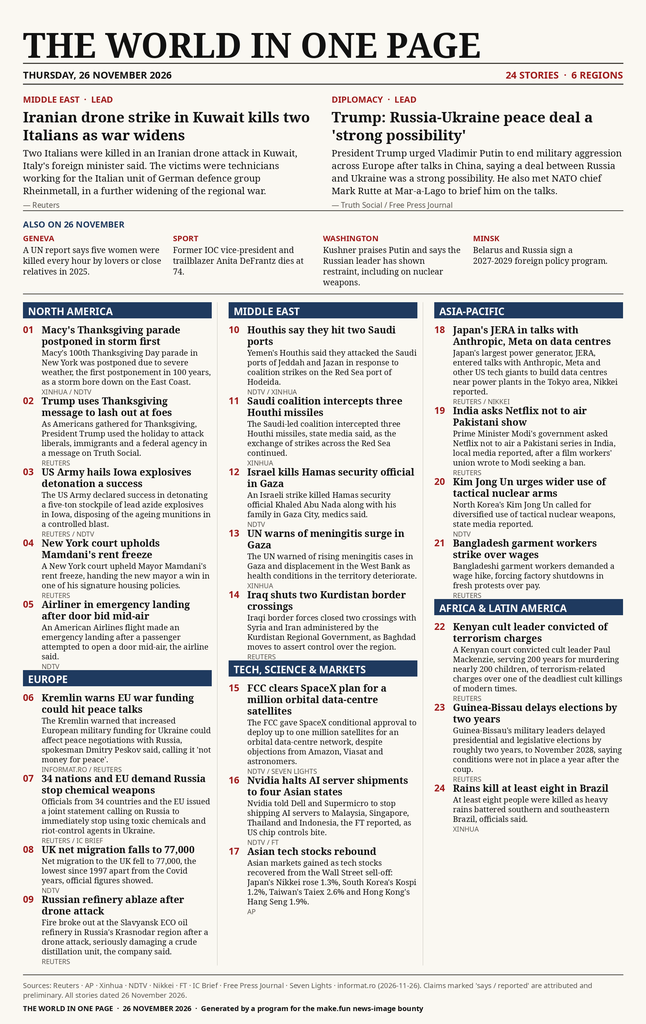
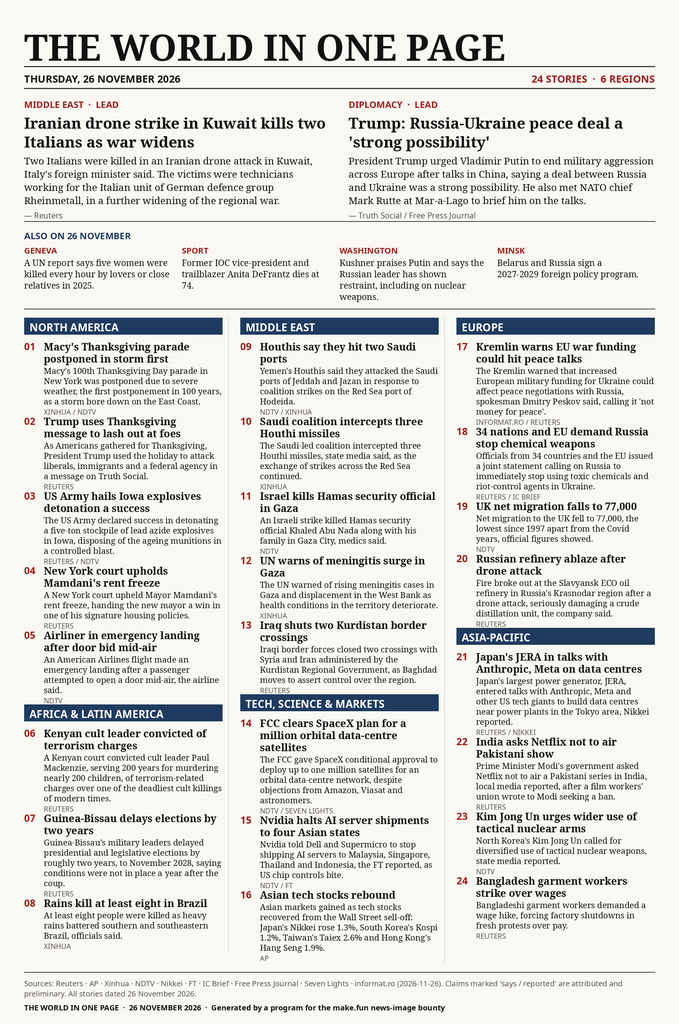
Rebalance columns: pair North America with Africa/Latin America, Europe with Asia-Pacific
Measured column heights left col 3 ~330px shorter than col 1; new pairing evens columns to ~1633-1728px each. No story text, headlines, sources or ordering changed.

diff --git a/generate_news_image.py b/generate_news_image.py
@@ -241,7 +241,11 @@ d.line([(M, y), (W - M, y)], fill=RULE, width=2)
 y = y + 24
 
 # --- body: 3 columns, sections assigned to balance height
-cols = [[0, 1], [2, 5], [3, 4]]  # section indices per column
+# Measured section heights (bar top to next bar / last ink, px):
+# NA 1025, MIDDLE EAST 998, ASIA-PACIFIC 827, EUROPE ~806, TECH ~730,
+# AFRICA ~671. This pairing evens the columns (~1633-1728 px each);
+# the old pairing left column 3 ~330 px shorter than column 1.
+cols = [[0, 4], [2, 5], [1, 3]]  # section indices per column
 f_sec = font(F_SANS_B, 28)
 f_num = font(F_SANS_B, 26)
 f_head = font(F_SERIF_B, 27)
